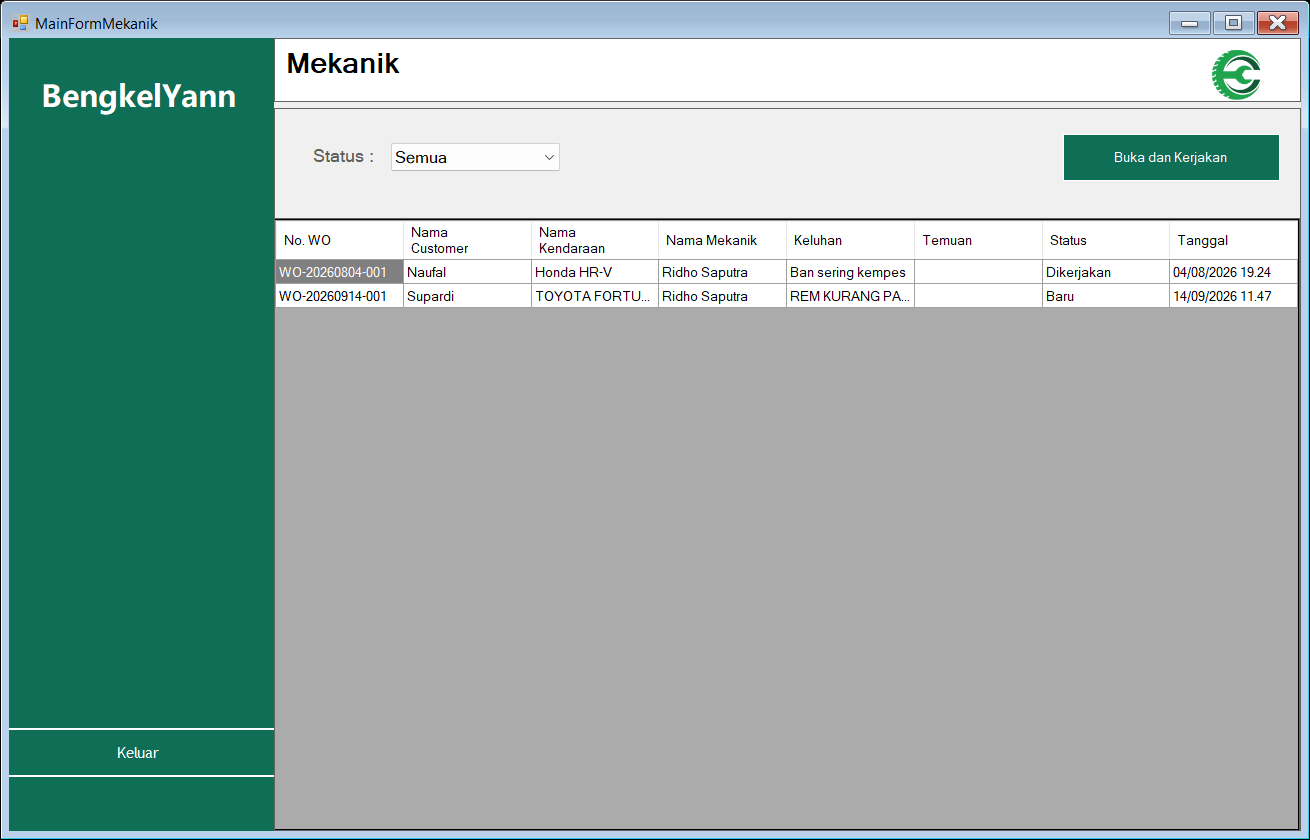
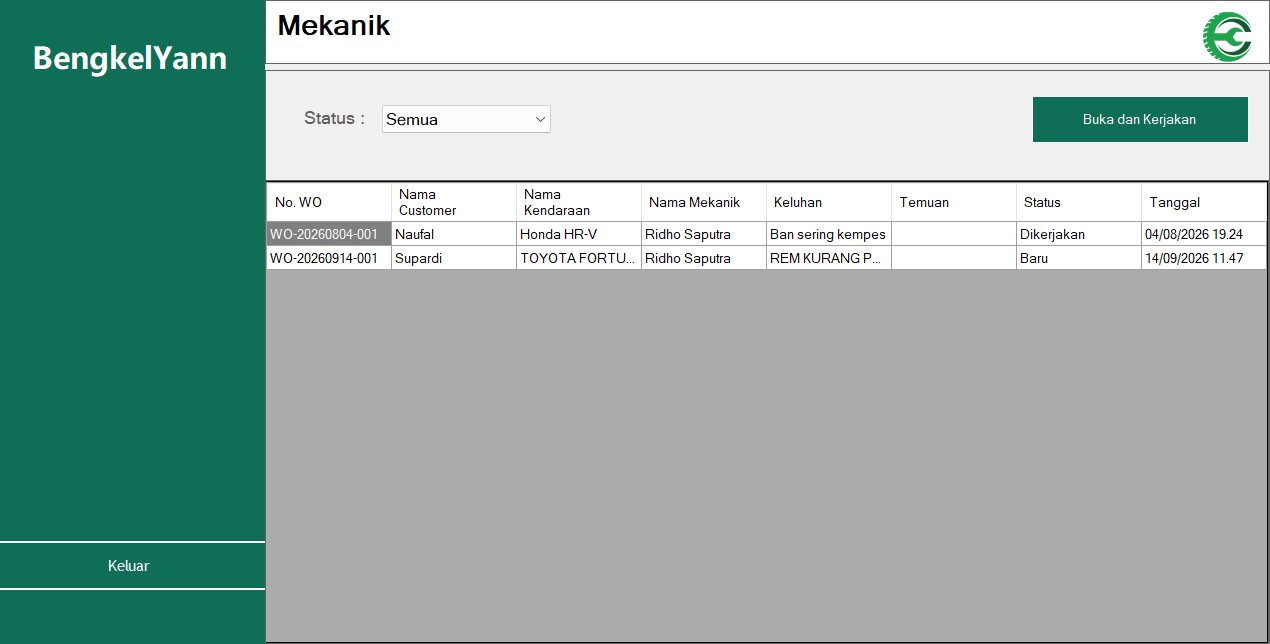
docs: recapture screenshots at original Designer sizes

Changed region(s): [[0.0, 0.0, 1.0, 1.0], [0.2457, 0.1553, 0.3685, 0.2174], [0.3992, 0.1553, 0.4299, 0.2174]]

diff --git a/README.md b/README.md
@@ -46,7 +46,9 @@ Aplikasi ini memiliki pembagian hak akses berdasarkan peran pengguna:
 
 ## Screenshot dan Penjelasan Fitur per Hak Akses
 
-Galeri berikut memperlihatkan tampilan form asli aplikasi untuk **Admin, Frontdesk, Gudang, Mekanik, dan Kasir**. Gunakan tautan berikut untuk langsung menuju hak akses yang ingin dilihat:
+Galeri berikut memperlihatkan tampilan form asli aplikasi untuk **Admin, Frontdesk, Gudang, Mekanik, dan Kasir**. Screenshot diambil pada ukuran bawaan masing-masing form sesuai Windows Forms Designer, tanpa memperbesar jendela atau mengubah tata letak kontrol, sehingga logo tetap berada di kanan atas sesuai desain. Hanya area antarmuka aplikasi yang diambil, tanpa bingkai judul Windows.
+
+Gunakan tautan berikut untuk langsung menuju hak akses yang ingin dilihat:
 
 - [Admin — pengelolaan dan pemantauan bengkel](#1-admin)
 - [Frontdesk — penerimaan dan monitoring kendaraan](#2-frontdesk)
